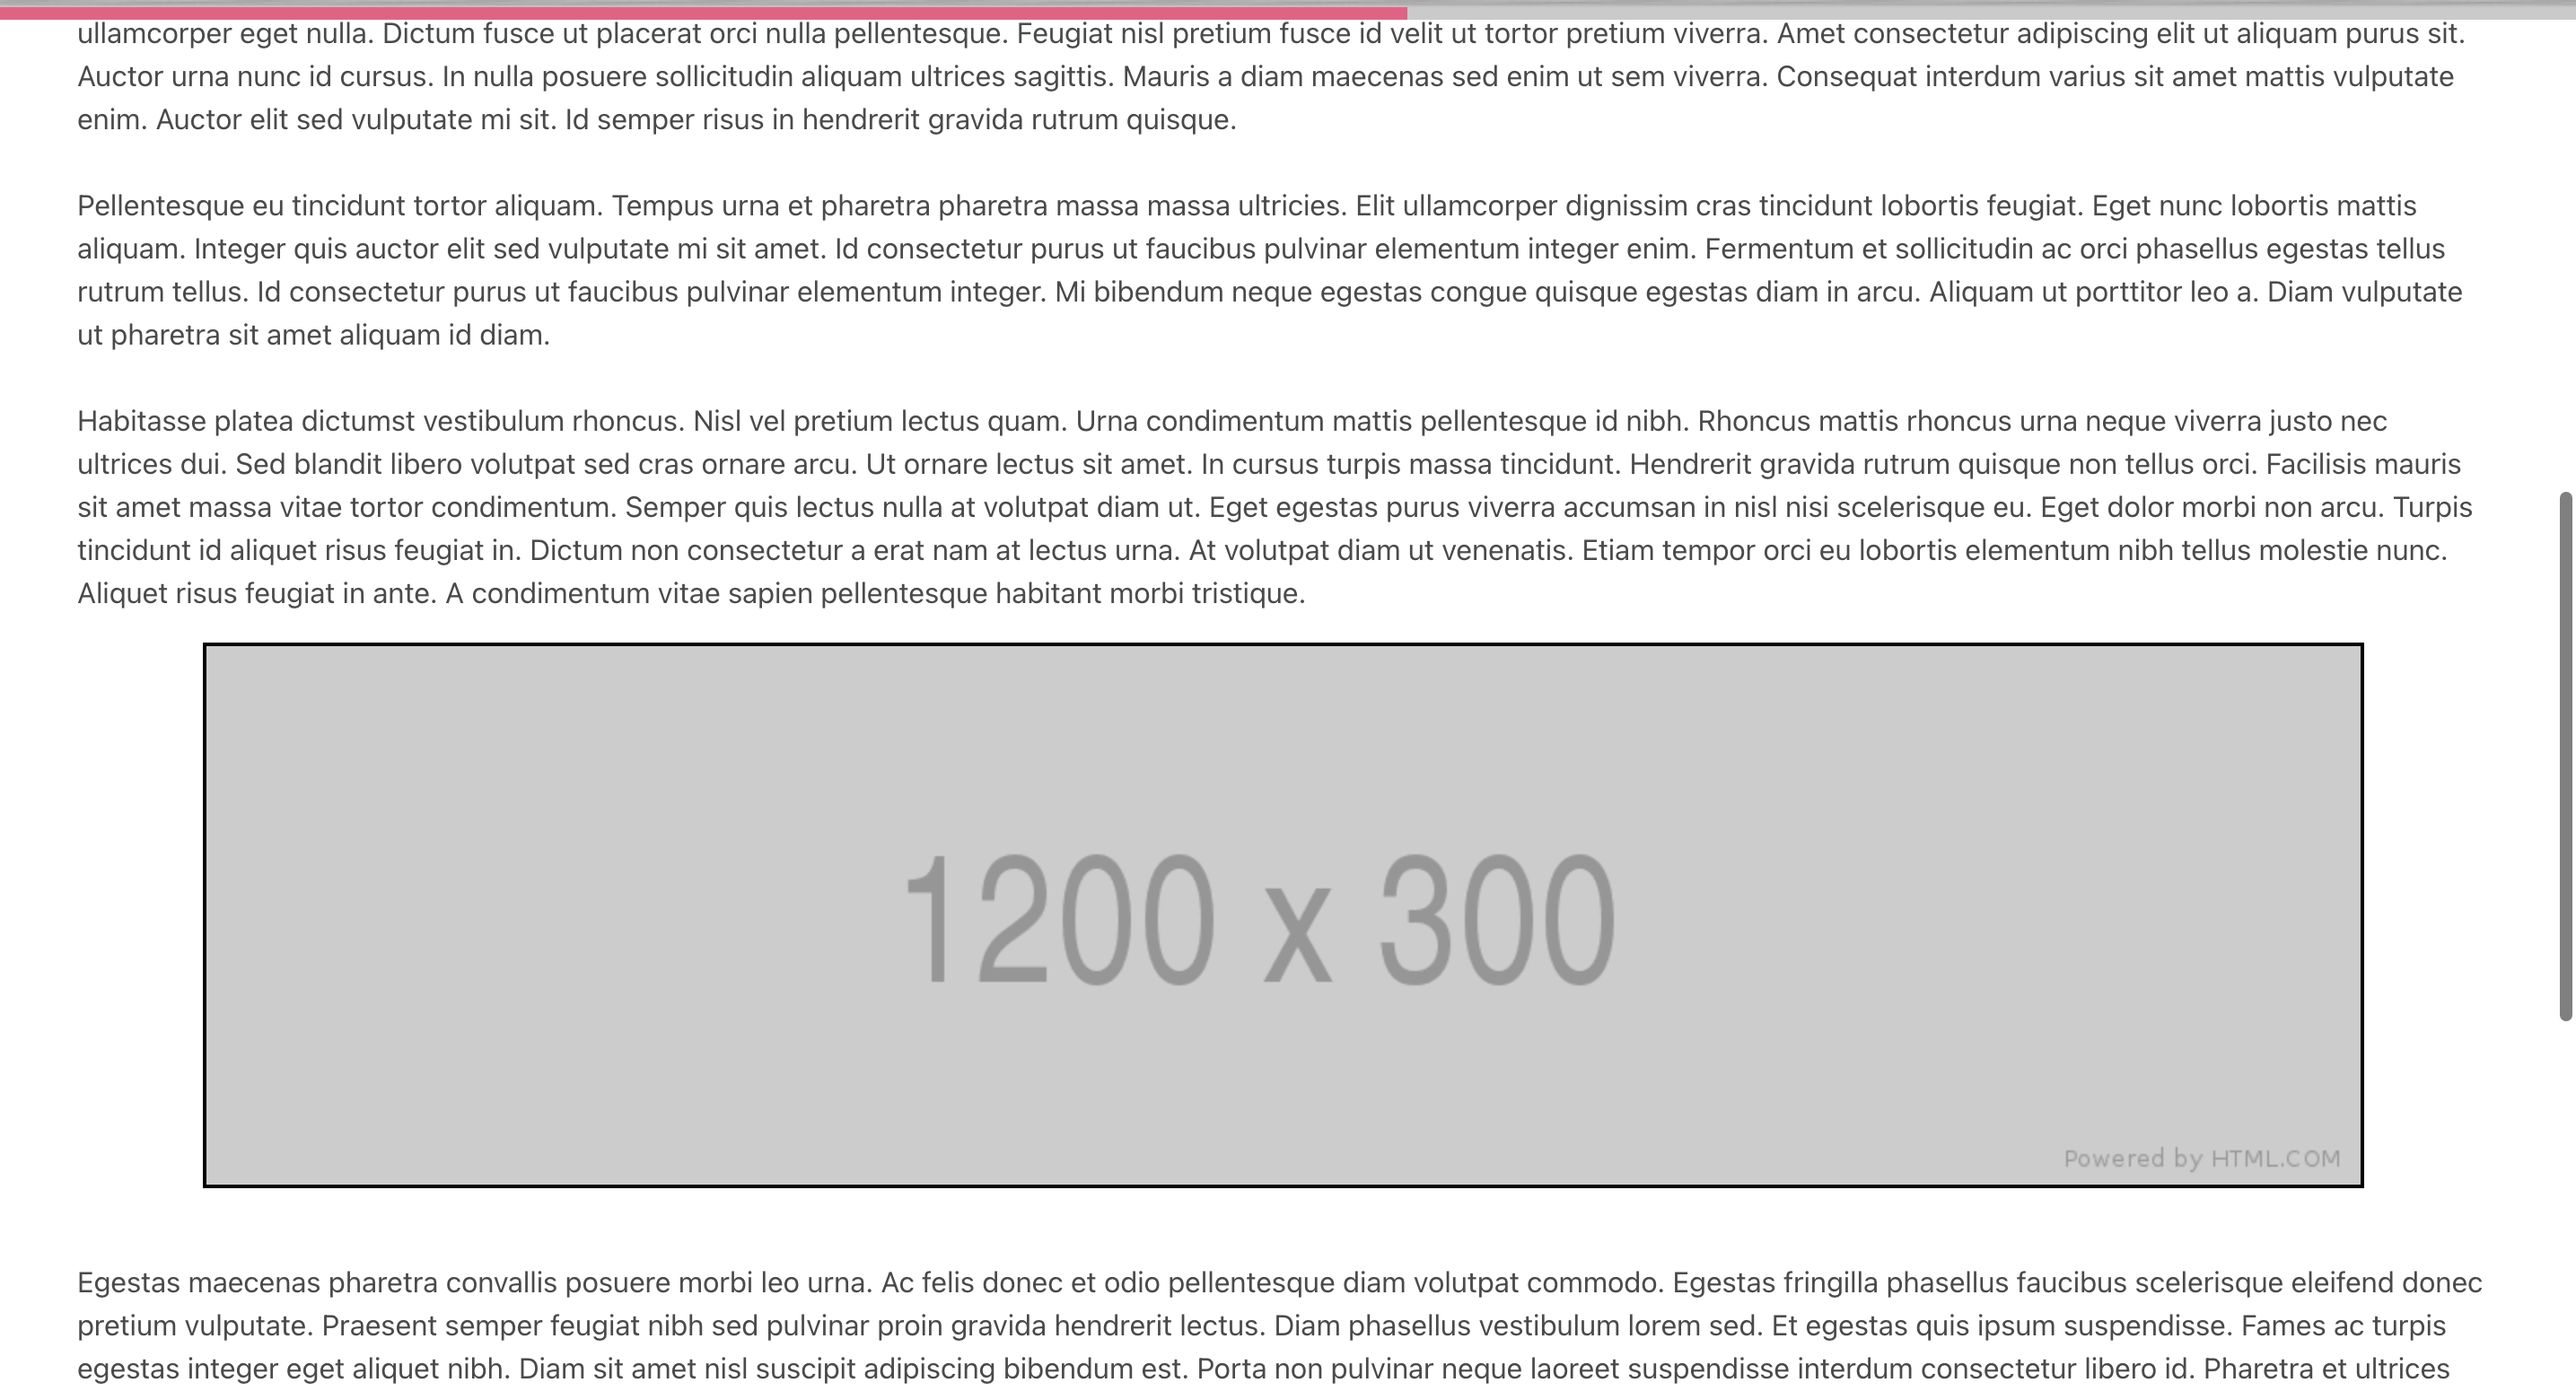
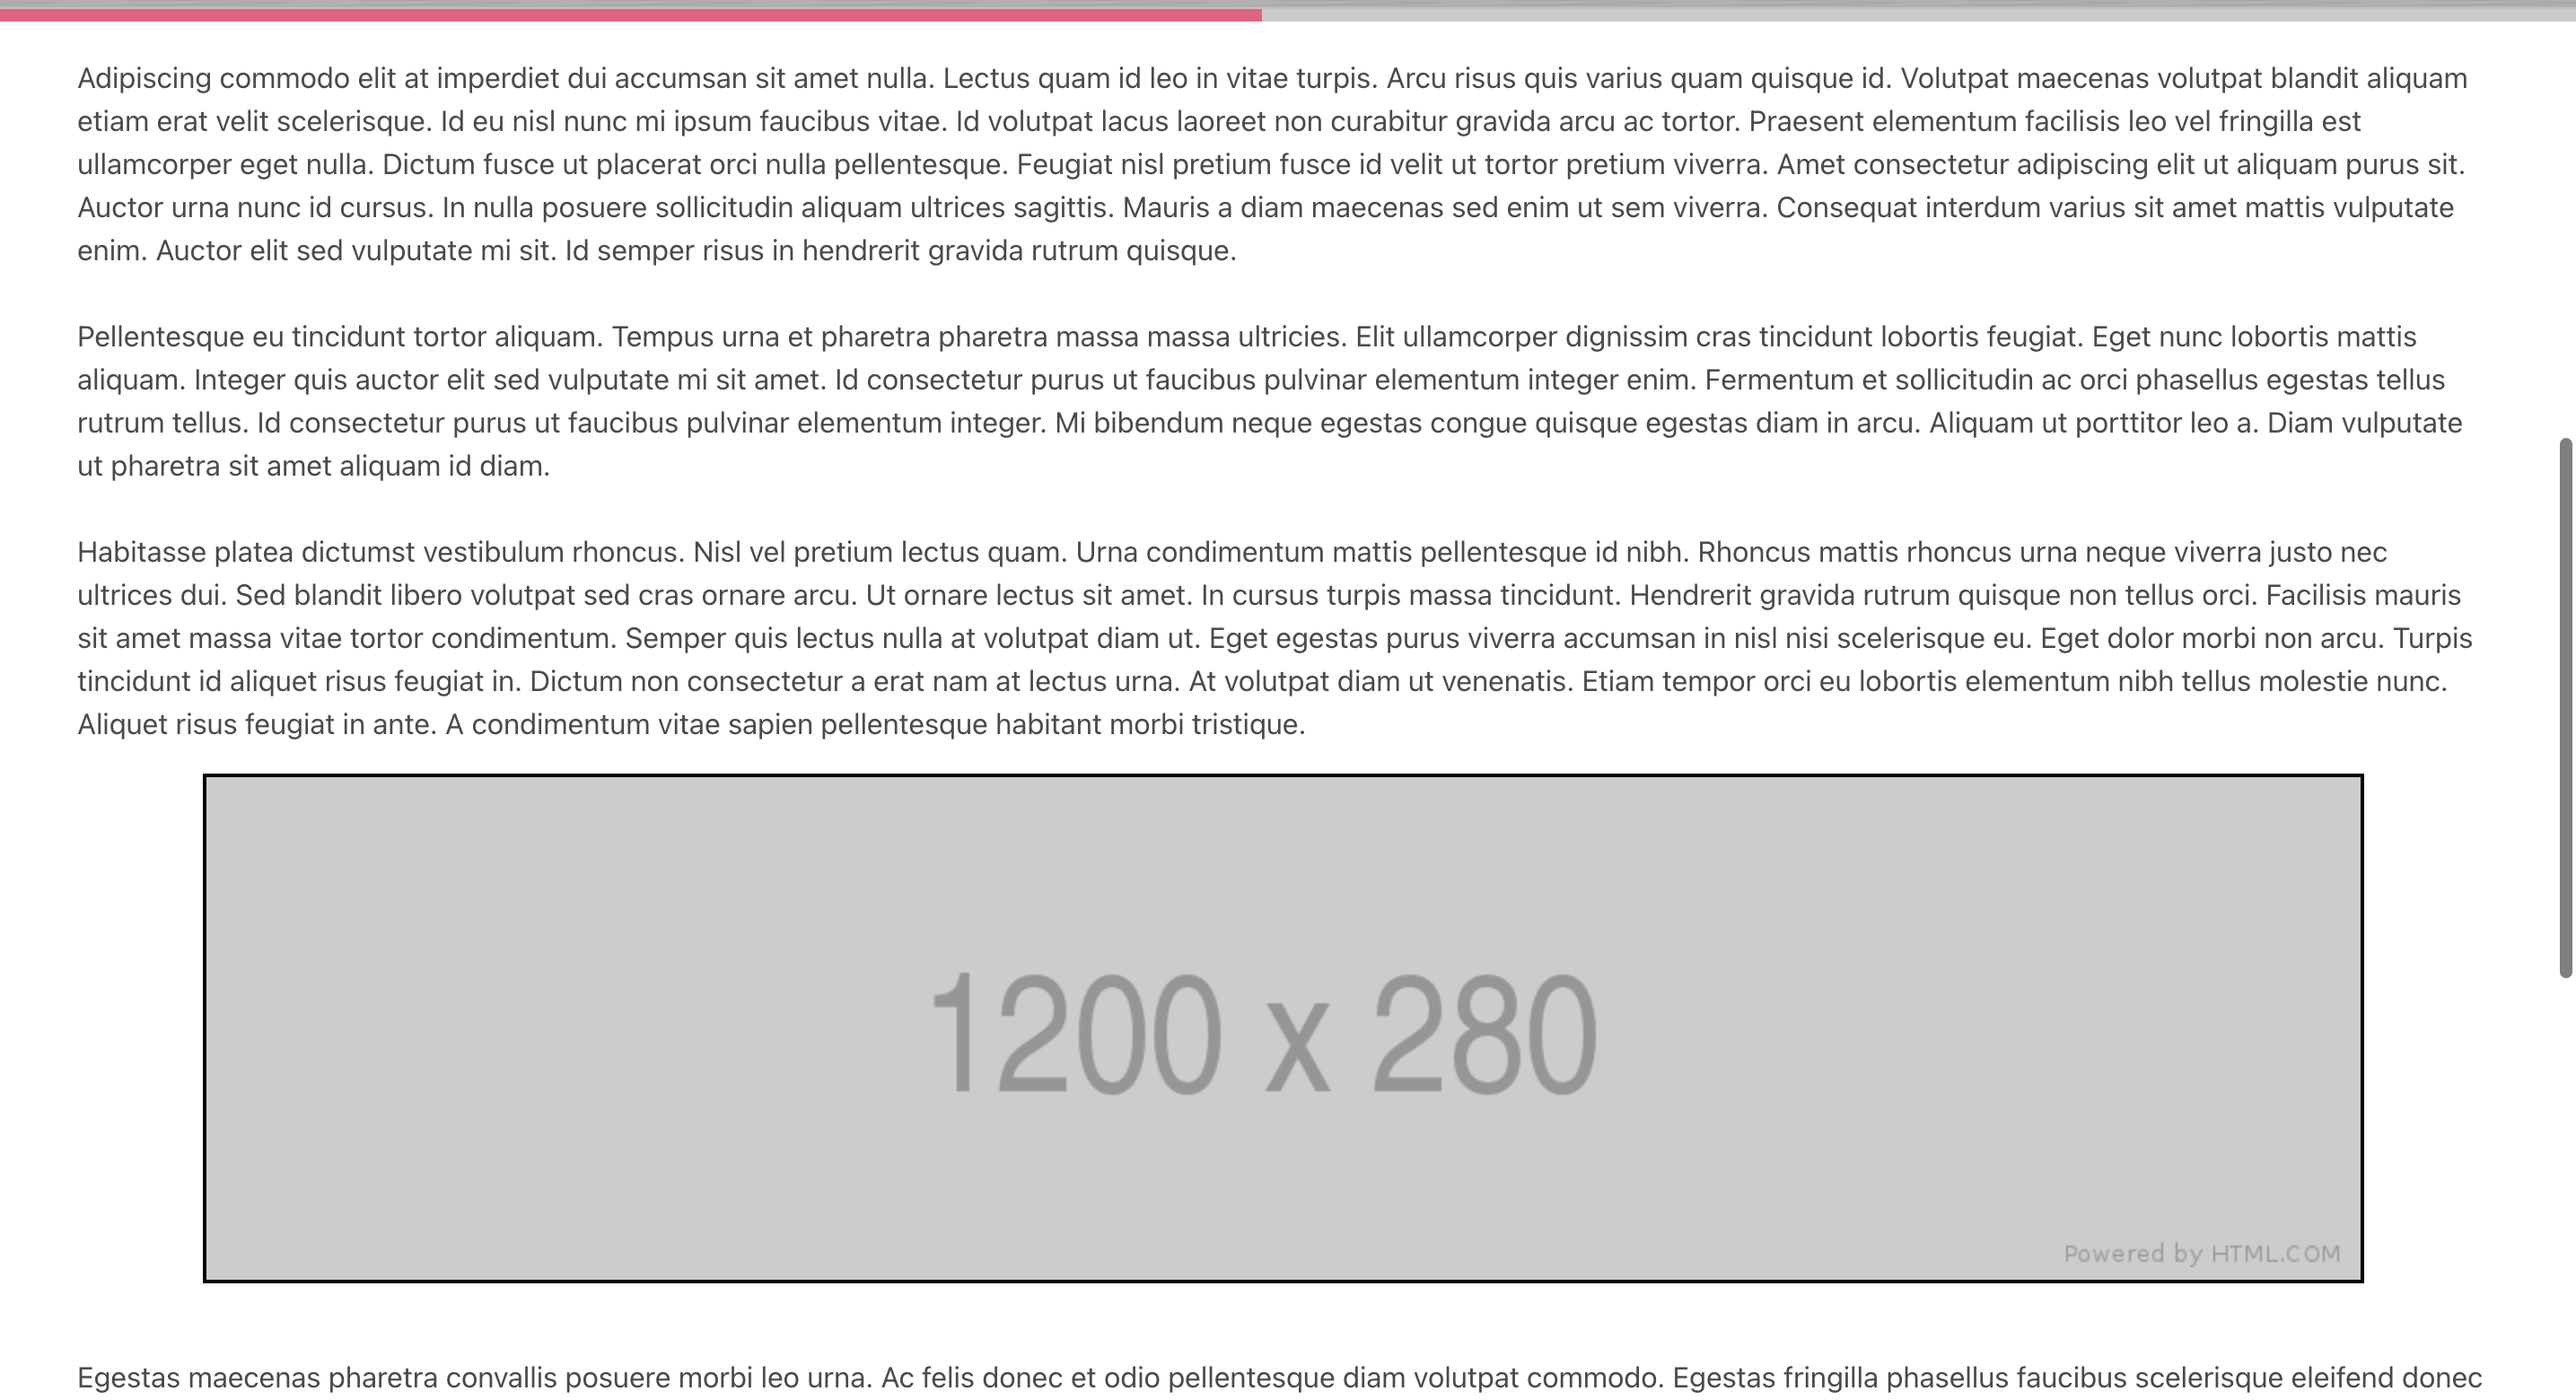
Changed screenshots and updated README in progressBar exercise

diff --git a/js/progressBar/main.js b/js/progressBar/main.js
@@ -18,4 +18,5 @@ window.addEventListener("scroll", () => {
     const scrolled = html.scrollTop / height * 100;
 
     progressInner.style.width = `${scrolled}%`;
+    console.log(scrolled);
 })

diff --git a/js/progressBar/README.md b/js/progressBar/README.md
@@ -2,8 +2,6 @@
 
 This is an exercise in creating a dynamic scrollbar that changes it's width depending on user's position on the site. This example made in javascript dynamically imports into the html two fixed scroll bars. The innerbar's width is dynamic and depends on content's scroll position. The inner scrollbar indicates user's progress in reading site's content.
 
-![Bar photo 1](screenshots/screen1.png)
-
----
-
-![Bar photo 2](screenshots/screen2.png)
+   *Progress: 0%*     |    *Progress: 49.2%*
+:-------------------------:|:-------------------------:
+![wat](screenshots/screen1.png)  |  ![wat](screenshots/screen2.png)
